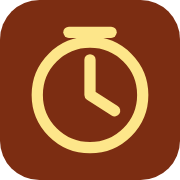
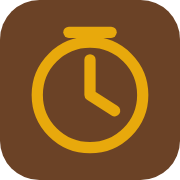
Bäckerei-Farben Braun/Goldgelb als Standard, Akzentfarbe, Name per .env
- Hauptfarbe Braun (Knöpfe, Überschriften), Akzentfarbe Goldgelb
  (Leiste oben, aktiver Reiter, "heute", Fokusrahmen); beides in den
  Einstellungen änderbar
- Standard-Name über VITE_BRAND_NAME bzw. Migration 006
- App-Icon in Braun/Gold, Manifest mit Namen aus der .env

Claude-Session: https://claude.ai/code/session_01Xt4GWaGNMeTqAHKiZGTmM9

Changed region(s): [[0.1667, 0.1389, 0.8333, 0.8611], [0.4444, 0.3056, 0.6667, 0.6667]]

diff --git a/src/features/settings/SettingsView.tsx b/src/features/settings/SettingsView.tsx
@@ -1,6 +1,6 @@
 import { useEffect, useState } from 'react';
 import { ImagePlus, Save, Trash2 } from 'lucide-react';
-import { BRAND_PRESETS, logoToDataUrl } from '../../lib/branding';
+import { ACCENT_PRESETS, BRAND_PRESETS, logoToDataUrl } from '../../lib/branding';
 import { useDB } from '../../store/db';
 import { saveSettings } from '../../store/actions';
 import type { Settings } from '../../lib/types';
@@ -83,15 +83,35 @@ export function SettingsView() {
               Eigene Farbe
             </label>
           </div>
-          <span className="mt-1 block text-xs text-stone-500">Tipp: eine eher dunkle Farbe wählen, damit weiße Schrift auf Knöpfen gut lesbar bleibt.</span>
+          <span className="mt-1 block text-xs text-stone-500">Für Knöpfe und Überschriften. Tipp: eine eher dunkle Farbe wählen, damit weiße Schrift gut lesbar bleibt.</span>
+        </div>
+        <div>
+          <span className="mb-1 block text-sm font-semibold text-stone-700">Akzentfarbe</span>
+          <div className="flex flex-wrap items-center gap-2">
+            {ACCENT_PRESETS.map((p) => (
+              <button
+                key={p.color}
+                onClick={() => set({ brand_accent: p.color })}
+                className={`flex min-h-12 items-center gap-2 rounded-xl border-2 bg-white px-3 text-sm font-semibold ${f.brand_accent?.toLowerCase() === p.color ? 'border-stone-800' : 'border-stone-200'}`}
+              >
+                <span className="h-6 w-6 rounded-full" style={{ background: p.color }} />
+                {p.name}
+              </button>
+            ))}
+            <label className="flex min-h-12 items-center gap-2 rounded-xl border-2 border-stone-200 bg-white px-3 text-sm font-semibold">
+              <input type="color" className="h-7 w-9 cursor-pointer rounded border-0 bg-transparent p-0" value={f.brand_accent ?? '#e8a90c'} onChange={(e) => set({ brand_accent: e.target.value })} aria-label="Eigene Akzentfarbe wählen" />
+              Eigene Farbe
+            </label>
+          </div>
+          <span className="mt-1 block text-xs text-stone-500">Für Markierungen: Leiste oben, aktiver Reiter, „heute“. Eine helle, kräftige Farbe passt am besten.</span>
         </div>
         <div className="rounded-xl bg-stone-50 p-3 ring-1 ring-stone-200">
           <div className="mb-2 text-xs font-semibold uppercase tracking-wide text-stone-500">Vorschau</div>
-          <div className="flex flex-wrap items-center gap-3" style={{ ['--brand' as string]: f.brand_color ?? '#8a3b12' }}>
+          <div className="flex flex-wrap items-center gap-3 border-t-4 border-accent-500 pt-3" style={{ ['--brand' as string]: f.brand_color ?? '#6b4226', ['--accent' as string]: f.brand_accent ?? '#e8a90c' }}>
             {f.brand_logo ? <img src={f.brand_logo} alt="" className="h-10 w-10 rounded-lg object-contain" /> : <img src={`${import.meta.env.BASE_URL}icon.svg`} alt="" className="h-10 w-10" />}
             <span className="font-display text-lg font-bold">{f.brand_name?.trim() || 'Pausenplaner'}</span>
             <span className="rounded-xl bg-brand-700 px-4 py-2 font-semibold text-white">Pausen automatisch planen</span>
-            <span className="rounded-full bg-brand-100 px-3 py-1 text-xs font-semibold text-brand-700">heute</span>
+            <span className="rounded-full bg-accent-200 px-3 py-1 text-xs font-semibold text-brand-800">heute</span>
           </div>
         </div>
       </section>

diff --git a/src/lib/branding.tsx b/src/lib/branding.tsx
@@ -2,6 +2,7 @@ import { useEffect, useState } from 'react';
 import { useDB } from '../store/db';
 
 export const BRAND_PRESETS = [
+  { name: 'Braun', color: '#6b4226' },
   { name: 'Kruste', color: '#8a3b12' },
   { name: 'Roggen', color: '#5b3a29' },
   { name: 'Weizengold', color: '#a16207' },
@@ -10,18 +11,28 @@ export const BRAND_PRESETS = [
   { name: 'Marine', color: '#1e3a8a' },
 ];
 
+export const ACCENT_PRESETS = [
+  { name: 'Goldgelb', color: '#e8a90c' },
+  { name: 'Honig', color: '#d97706' },
+  { name: 'Weizen', color: '#d4b26a' },
+  { name: 'Creme', color: '#e9d8b4' },
+];
+
 export const appName = (name: string | null | undefined) => name?.trim() || 'Pausenplaner';
 
 /** Firmenfarbe, Titel und Browser-Farbe aus den Einstellungen anwenden. */
 export function useApplyBranding() {
   const color = useDB((s) => s.settings.brand_color);
+  const accent = useDB((s) => s.settings.brand_accent);
   const name = useDB((s) => s.settings.brand_name);
   useEffect(() => {
-    const c = /^#[0-9a-f]{6}$/i.test(color ?? '') ? color! : '#8a3b12';
+    const hex = (v: string | null | undefined, d: string) => (/^#[0-9a-f]{6}$/i.test(v ?? '') ? v! : d);
+    const c = hex(color, '#6b4226');
     document.documentElement.style.setProperty('--brand', c);
+    document.documentElement.style.setProperty('--accent', hex(accent, '#e8a90c'));
     document.querySelector('meta[name="theme-color"]')?.setAttribute('content', c);
     document.title = name?.trim() ? `Pausenplan · ${name.trim()}` : 'Pausenplaner';
-  }, [color, name]);
+  }, [color, accent, name]);
 }
 
 export function BrandLogo({ className = 'h-9 w-9' }: { className?: string }) {

diff --git a/vite.config.ts b/vite.config.ts
@@ -1,10 +1,12 @@
 /// <reference types="vitest/config" />
-import { defineConfig } from 'vite';
+import { defineConfig, loadEnv } from 'vite';
 import react from '@vitejs/plugin-react';
 import tailwindcss from '@tailwindcss/vite';
 import { VitePWA } from 'vite-plugin-pwa';
 
-export default defineConfig(({ mode }) => ({
+export default defineConfig(({ mode }) => {
+  const brand = loadEnv(mode, process.cwd(), 'VITE_').VITE_BRAND_NAME?.trim();
+  return {
   // relative Pfade: App läuft auch in einem Unterordner / als gehostete Website
   base: './',
   build: mode === 'artifact' ? { outDir: process.env.OUT_DIR ?? 'dist-site', emptyOutDir: true } : undefined,
@@ -17,12 +19,12 @@ export default defineConfig(({ mode }) => ({
       registerType: 'autoUpdate',
       includeAssets: ['icon.svg', 'apple-touch-icon.png'],
       manifest: {
-        name: 'Pausenplaner Filiale',
-        short_name: 'Pausenplaner',
+        name: brand ? `Pausenplan ${brand}` : 'Pausenplaner Filiale',
+        short_name: 'Pausenplan',
         description: 'Digitale Pausenplanung & PEPZeit-Abgleich für die Bäckerei-Filiale',
         lang: 'de',
-        theme_color: '#7c2d12',
-        background_color: '#fafaf9',
+        theme_color: '#6b4226',
+        background_color: '#faf6f0',
         display: 'standalone',
         orientation: 'any',
         start_url: './',
@@ -43,4 +45,5 @@ export default defineConfig(({ mode }) => ({
     }),
   ],
   test: { environment: 'node' },
-}));
+  };
+});

diff --git a/src/index.css b/src/index.css
@@ -6,7 +6,8 @@
  * Neutrale Töne sind warm (Mehl, Teig, Kruste) statt kühlgrau.
  */
 :root {
-  --brand: #8a3b12;
+  --brand: #6b4226;   /* Braun */
+  --accent: #e8a90c;  /* Goldgelb */
 }
 
 @theme inline {
@@ -17,6 +18,12 @@
   --color-brand-600: color-mix(in oklab, var(--brand) 92%, white);
   --color-brand-700: var(--brand);
   --color-brand-800: color-mix(in oklab, var(--brand) 78%, black);
+  --color-accent-50: color-mix(in oklab, var(--accent) 10%, #fffdf9);
+  --color-accent-100: color-mix(in oklab, var(--accent) 22%, #fffdf9);
+  --color-accent-200: color-mix(in oklab, var(--accent) 45%, #fffdf9);
+  --color-accent-400: color-mix(in oklab, var(--accent) 85%, white);
+  --color-accent-500: var(--accent);
+  --color-accent-600: color-mix(in oklab, var(--accent) 82%, black);
 }
 
 @theme {
@@ -37,6 +44,7 @@ html, body, #root { height: 100%; }
 body { overscroll-behavior: none; -webkit-tap-highlight-color: transparent; }
 h1, h2, .font-display { font-family: var(--font-display); letter-spacing: -0.01em; }
 button, [role="button"] { touch-action: manipulation; user-select: none; }
+:focus-visible { outline: 3px solid var(--accent); outline-offset: 2px; }
 .no-scrollbar::-webkit-scrollbar { display: none; }
 .stripes { background-image: repeating-linear-gradient(45deg, rgba(0,0,0,.12) 0 6px, transparent 6px 12px); }
 @keyframes pulse-ring { 0%,100% { box-shadow: 0 0 0 0 rgba(245,158,11,.7);} 50% { box-shadow: 0 0 0 6px rgba(245,158,11,0);} }

diff --git a/src/App.tsx b/src/App.tsx
@@ -70,7 +70,7 @@ export default function App() {
 
   return (
     <div className="flex min-h-full flex-col bg-stone-50 text-stone-900">
-      <header className="sticky top-0 z-30 border-b border-stone-200 bg-white/95 backdrop-blur">
+      <header className="sticky top-0 z-30 border-b border-stone-200 border-t-4 border-t-accent-500 bg-white/95 backdrop-blur">
         <div className="flex items-center gap-3 px-3 py-2 sm:px-5">
           <BrandLogo className="h-10 w-10" />
           <div className="mr-auto min-w-0 leading-tight">
@@ -102,7 +102,7 @@ export default function App() {
               <button
                 key={n.id}
                 onClick={() => setView(n.id)}
-                className={`relative flex min-h-12 shrink-0 items-center gap-2 border-b-[3px] px-4 font-semibold ${view === n.id ? 'border-brand-700 text-brand-700' : 'border-transparent text-stone-500 hover:text-stone-800'}`}
+                className={`relative flex min-h-12 shrink-0 items-center gap-2 border-b-[3px] px-4 font-semibold ${view === n.id ? 'border-accent-500 text-brand-700' : 'border-transparent text-stone-500 hover:text-stone-800'}`}
               >
                 <n.icon size={18} />
                 {n.label}

diff --git a/src/features/week/WeekView.tsx b/src/features/week/WeekView.tsx
@@ -107,7 +107,7 @@ export function WeekView({ onOpenDay, onGoImport }: { onOpenDay: (planId: string
                         ) : p.status === 'closed' ? (
                           <Badge tone="stone"><Lock size={10} /> abgeschlossen</Badge>
                         ) : (
-                          <Badge tone={isToday ? 'brand' : 'green'}>{isToday ? 'heute' : 'offen'} · {counts.get(d) ?? 0} MA</Badge>
+                          isToday ? <span className="rounded-full bg-accent-200 px-2.5 py-0.5 text-xs font-semibold text-brand-800">heute · {counts.get(d) ?? 0} MA</span> : <Badge tone="green">offen · {counts.get(d) ?? 0} MA</Badge>
                         )}
                       </button>
                     </th>

diff --git a/src/lib/types.ts b/src/lib/types.ts
@@ -36,6 +36,7 @@ export interface Settings {
   brand_name?: string | null;
   brand_logo?: string | null;
   brand_color?: string | null;
+  brand_accent?: string | null;
   updated_at: string;
 }
 
@@ -127,9 +128,11 @@ export const DEFAULT_SETTINGS: Settings = {
   short_shift_block_minutes: 15,
   count_unstarted_as_taken: false,
   timezone: 'Europe/Berlin',
-  brand_name: '',
+  // Standard-Name kommt aus der .env (VITE_BRAND_NAME), damit er nicht im Code steht
+  brand_name: (import.meta.env?.VITE_BRAND_NAME as string | undefined) ?? '',
   brand_logo: null,
-  brand_color: '#8a3b12',
+  brand_color: '#6b4226',
+  brand_accent: '#e8a90c',
   updated_at: new Date(0).toISOString(),
 };
 

diff --git a/src/features/auth/Login.tsx b/src/features/auth/Login.tsx
@@ -24,7 +24,7 @@ export function Login() {
 
   return (
     <div className="flex min-h-full items-center justify-center bg-stone-50 p-4 text-stone-900">
-      <div className="w-full max-w-md rounded-2xl bg-white p-6 shadow-xl">
+      <div className="w-full max-w-md rounded-2xl border-t-8 border-accent-500 bg-white p-6 shadow-xl">
         <div className="mb-6 flex items-center gap-3">
           <BrandLogo className="h-14 w-14" />
           <div>

diff --git a/index.html b/index.html
@@ -3,7 +3,7 @@
   <head>
     <meta charset="UTF-8" />
     <meta name="viewport" content="width=device-width, initial-scale=1.0, viewport-fit=cover" />
-    <meta name="theme-color" content="#7c2d12" />
+    <meta name="theme-color" content="#6b4226" />
     <meta name="apple-mobile-web-app-capable" content="yes" />
     <link rel="icon" href="./icon.svg" type="image/svg+xml" />
     <link rel="apple-touch-icon" href="./apple-touch-icon.png" />

diff --git a/README.md b/README.md
@@ -71,6 +71,8 @@ cp .env.example .env
 VITE_SUPABASE_URL=https://<projekt>.supabase.co
 VITE_SUPABASE_ANON_KEY=<anon public key>
 ```
+Mit `VITE_BRAND_NAME` steht der Name der Bäckerei von Anfang an in der App. Später lässt er sich unter Einstellungen → Darstellung ändern, dort auch Logo, Hauptfarbe (Standard Braun) und Akzentfarbe (Standard Goldgelb).
+
 Ohne `.env` startet die App im **lokalen Modus**: Die Rolle wählt man beim Start, alle Daten bleiben auf dem Gerät. Echtzeit-Sync gibt es dann nicht. Gut zum Ausprobieren.
 
 ### 4. Lokal starten & testen
